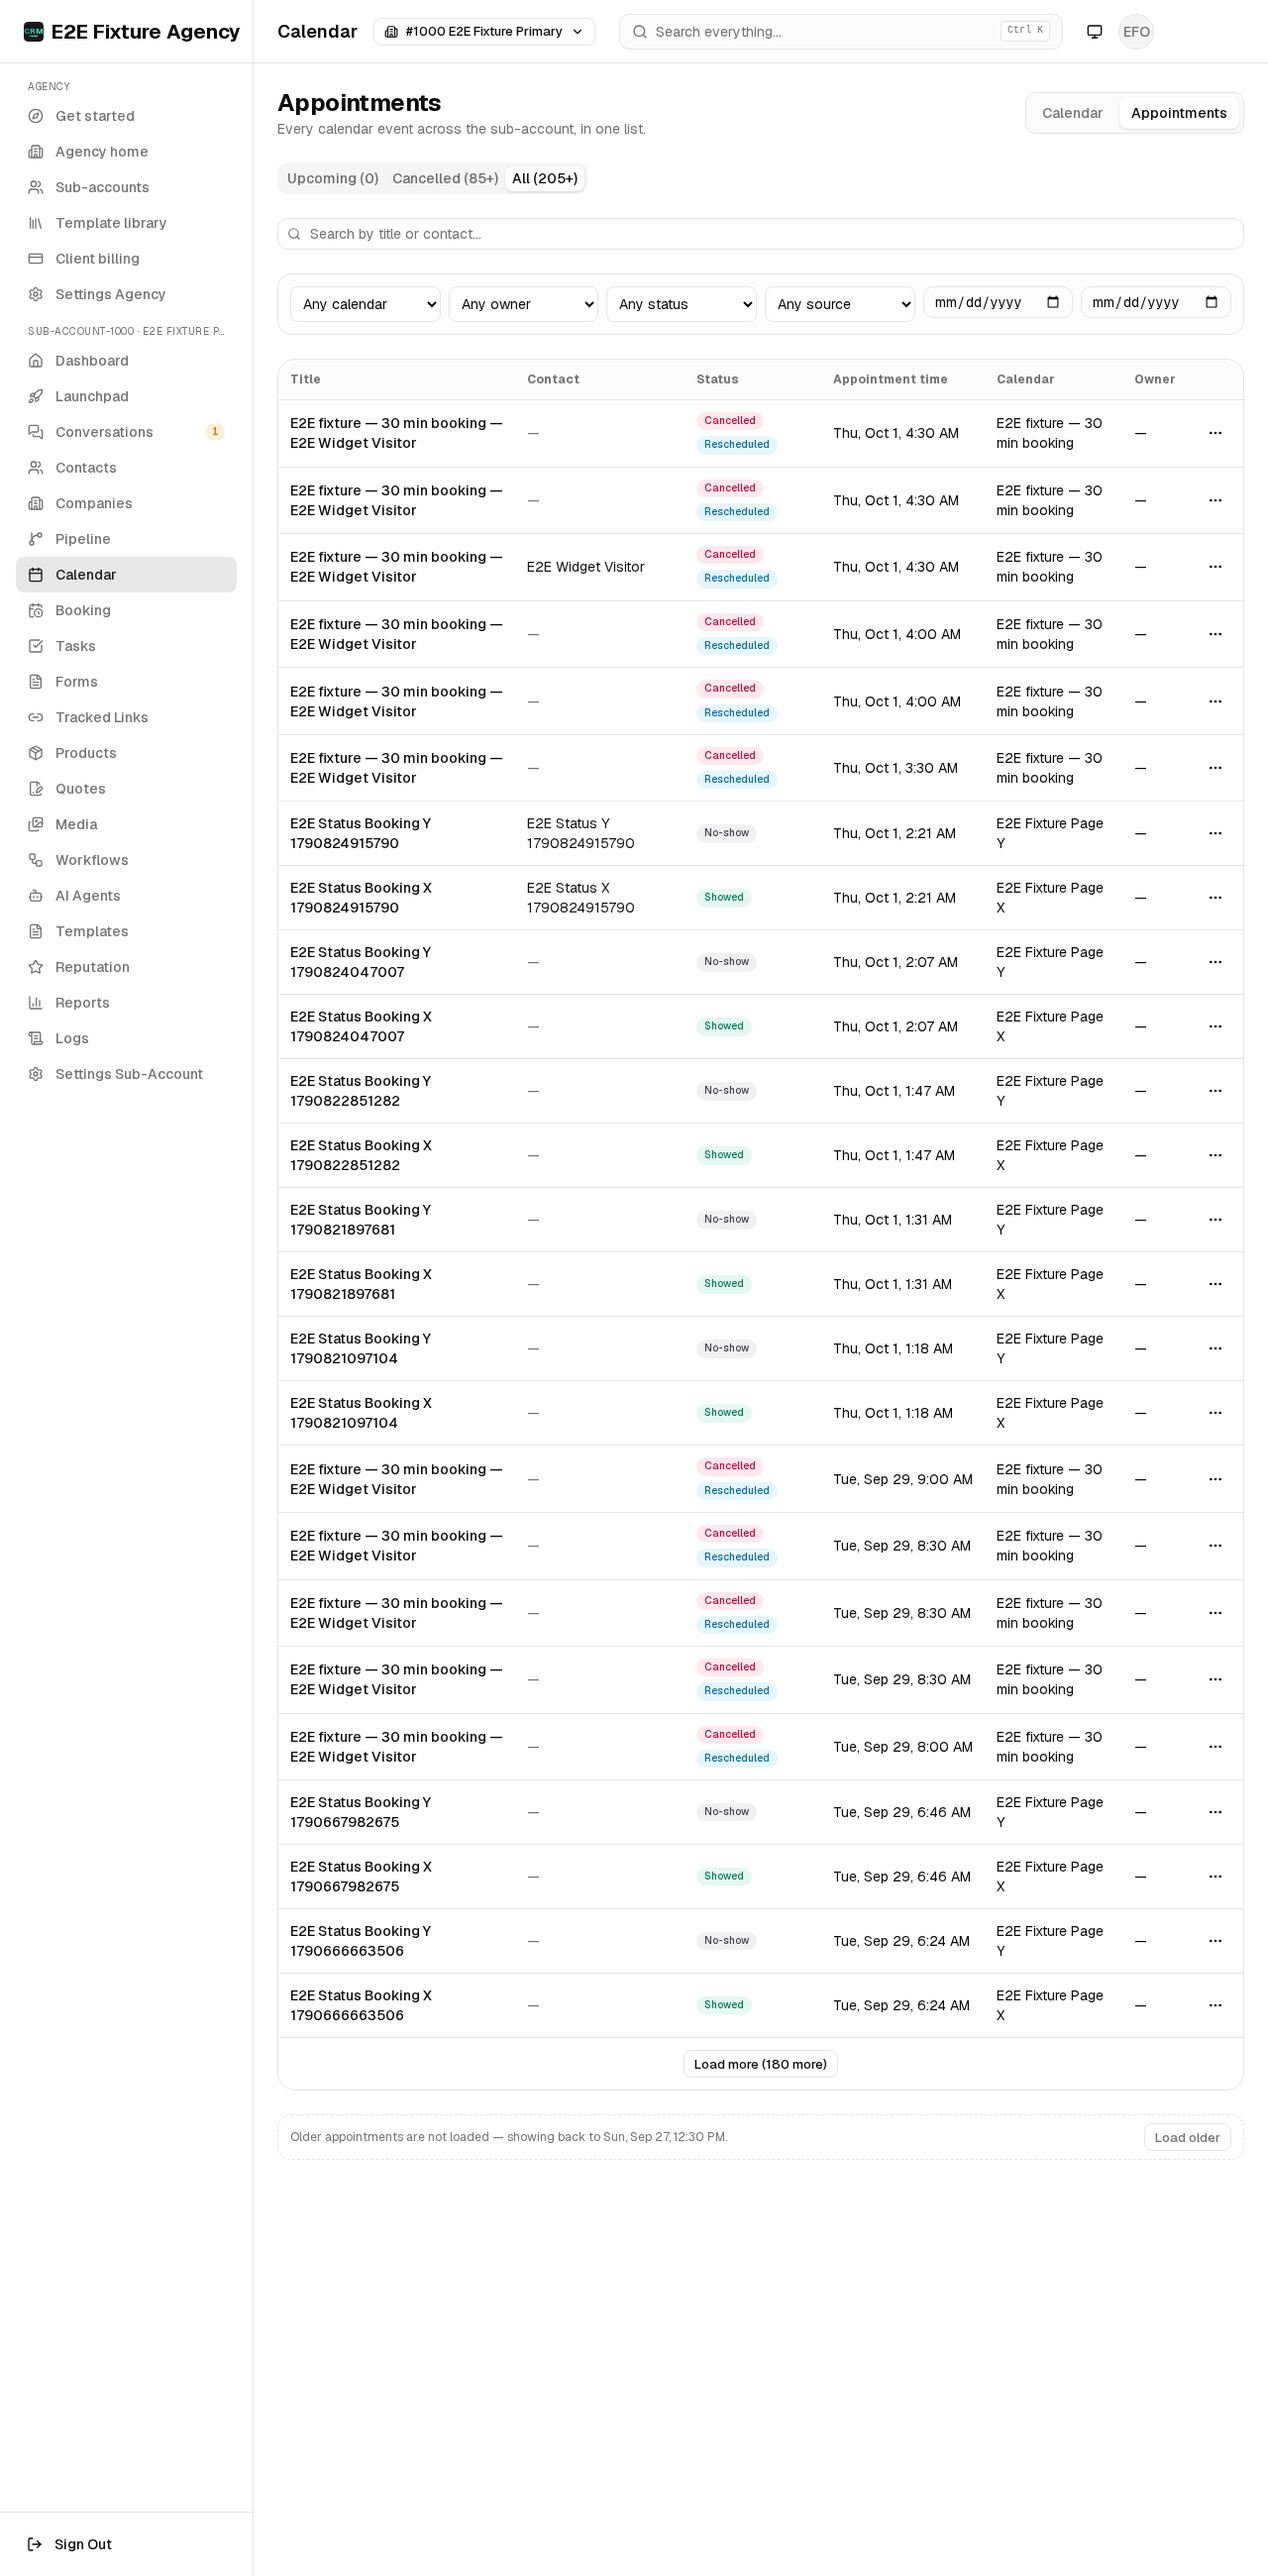
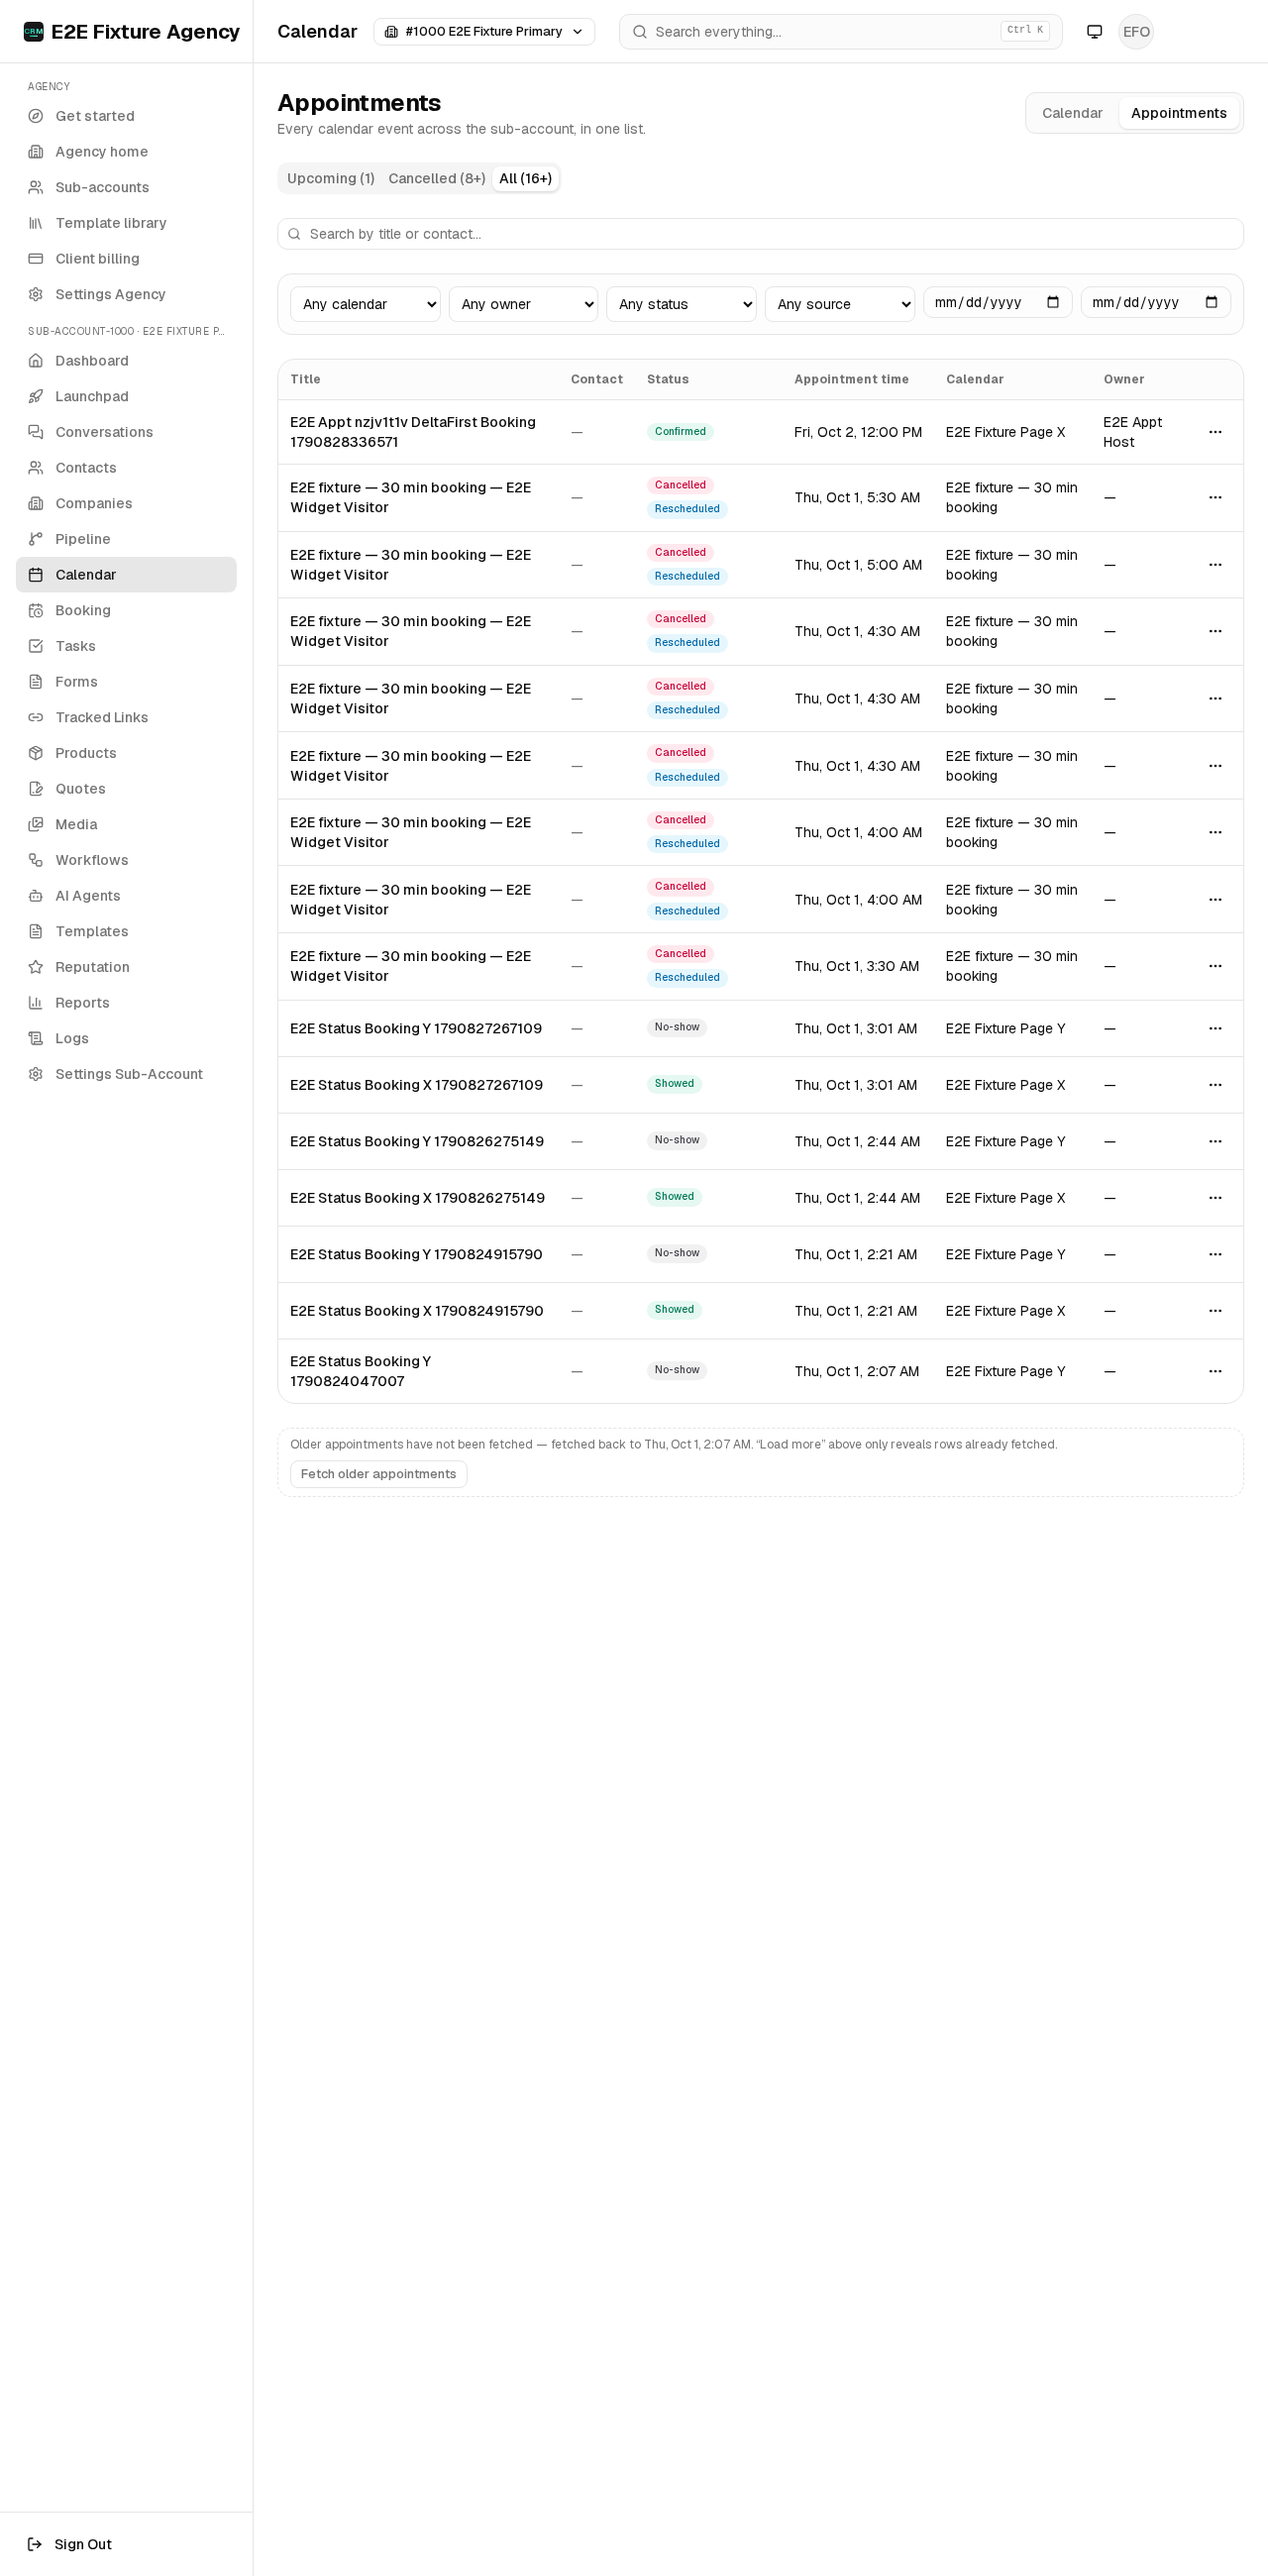
docs(parity): known gaps, review-round mutation table, re-shot screenshots

diff --git a/docs/parity/evidence/events-listener-bound/README.md b/docs/parity/evidence/events-listener-bound/README.md
@@ -5,7 +5,7 @@ history (`subscribeToEvents`). It now uses `subscribeToAppointments`: two
 bounded listeners split at subscribe time.
 
 - Upcoming: `startAt >= now`, ascending, limit 500.
-- Past: `startAt < now`, descending, 200 per page. "Load older" adds a page.
+- Past: `startAt < now`, descending, 200 per page. "Fetch older appointments" adds a page.
 - Tab counts get a "+" and a notice says when older or later events are not
   loaded, so nothing disappears silently.
 - `subscribeToEvents` is untouched; the calendar and command palette keep it.
@@ -32,10 +32,37 @@ Mutation evidence: [mutations.md](mutations.md).
 
 Standalone build of this branch on 127.0.0.1:3141, logged in as the E2E
 fixture user, appointments page of the primary fixture sub-account. Clicked
-tabs and "Load older" only.
+tabs and "Fetch older appointments" only.
 
-- `1-upcoming.png`: Upcoming (0), Cancelled (85+), All (205+).
-- `2-all.png`: All tab, 25 rows, "Load more (180 more)".
-- `3-all-after-load-older.png`: after one "Load older": Cancelled (159+), All
-  (405+), "Load more (380 more)", notice now "showing back to Sat, Sep 26".
-  The notice and "Load older" button sit under the rows.
+The reaper has since cleared the fixture to ~23 events, far under the real
+200-event page, so no notice would appear. For these shots ONLY the build was
+made with `APPOINTMENTS_PAST_PAGE = 10` (reverted; not in the commit):
+
+- `1-upcoming.png`: Upcoming (1), Cancelled (8+), All (16+).
+- `2-all.png`: All tab, "+" on the counts, notice "Older appointments have
+  not been fetched ... 'Load more' above only reveals rows already fetched."
+  and the "Fetch older appointments" button.
+- `3-all-after-load-older.png`: after one fetch, everything is loaded:
+  Cancelled (8), All (23), no "+", notice gone.
+
+Not shown: the "Load more (N more)" button coexisting with the notice, since
+with a 10-row past page all rows fit on one 25-row page. That combination was
+seen in the earlier shots at the real 200 limit (fixture then had ~1,900
+events); those were replaced by these.
+
+## Known gaps
+
+The list's confirmed-status override covers the row menu and the Edit /
+Reschedule dialog's mark-status action. These dialog writes are still
+snapshot-only (the row updates when the Listen delta arrives, which can lag
+~30 s):
+
+- mark-paid (`event-dialog.tsx`, BookingActionsPanel `markPaid`)
+- operator reschedule (`event-dialog.tsx` submit path)
+- server-side DELETE for Google-mirrored events (`event-dialog.tsx`)
+
+Events with no `startAt` match neither bounded query and are not listed.
+Production has none (all create paths set `startAt`), so this was left as is.
+
+Overrides expire after 60 s, so a masked change heals within a minute at
+worst. Mutation evidence: [mutations.md](mutations.md).

diff --git a/docs/parity/evidence/events-listener-bound/mutations.md b/docs/parity/evidence/events-listener-bound/mutations.md
@@ -36,3 +36,32 @@ requests to a never-settling handler and cutting the open stream with an
 offline blip. Routing alone does not work: the open stream is one long
 response a later route never sees (measured: the test passed with the
 override disabled).
+
+## Review round 1 (2026-10-01)
+
+Unit rows run with `pnpm exec vitest run <file>`; E2E rows rebuild the app with
+the mutation and run the named spec test against the fixture (CI idle first).
+Every file restored (SHA-1 compared).
+
+| Guard | Mutation | Failing test |
+|---|---|---|
+| 1a no override when latest snapshot already shows it | condition forced false | status-overrides.test.ts › sets nothing when ...; › and clears an older override |
+| 1a `from` taken from the latest snapshot | hard-coded `no_show` | › records the latest snapshot's status as `from` |
+| 1a page reads the snapshot via a ref | `noteConfirmedStatus` uses the click-time `snapshotEvents` | E2E › a delta that beats the response does not leave an override masking a later change |
+| 1b TTL | `nowMs - at < TTL` → `true` | status-overrides.test.ts › drops an override once it is older than the TTL |
+| 1b expiry timer delay | delay ignores TTL | › reports when the next override expires |
+| 1b page expiry timer | handler does nothing | E2E › a status override expires after a minute instead of masking the row |
+| 2 dialog status change reaches the page | remove `onStatusChange?.(...)` in event-dialog.tsx | E2E › a status changed from the Edit dialog reads on the row without the Firestore delta |
+| 3 error reported once | drop the `errored` guard | events.appointments.test.ts › both halves failing: one error report |
+| 3 failed past half blocks the other | `past = null` on error | › one half failing: the other still renders ... |
+| 3 failed upcoming half blocks the other | `upcoming = null` on error | › both halves failing ... |
+| 3 `failedHalves` not reported | drop the past entry | › one half failing ... |
+| 4 past probe | `limit(pastLimit + 1)` → `limit(pastLimit)` | › past half: ... limited to pastLimit (+1) |
+| 4 upcoming probe | same for upcoming | › upcoming half: ... capped (limit + 1 ...) |
+| 4 probe doc shown (past / upcoming) | drop the `slice` | › waits for both halves ...; › flags the upcoming half ... |
+| 4 truncated at exactly the limit (past) | `>` → `>=` | › a half that returns exactly its limit is NOT truncated |
+| 4 truncated at exactly the limit (upcoming) | `>` → `>=` | survived at first; test added: › the upcoming half returning exactly its limit is NOT truncated |
+
+Note: an early E2E "stall" using only `page.route` stayed green with the
+override disabled (the open stream is never re-routed); the final tests cut the
+stream with an offline blip first.
